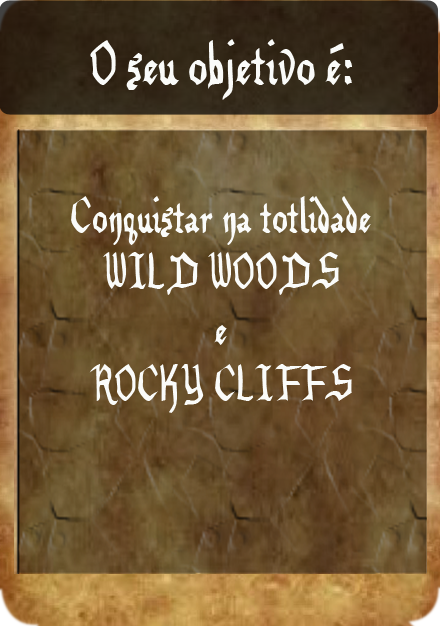
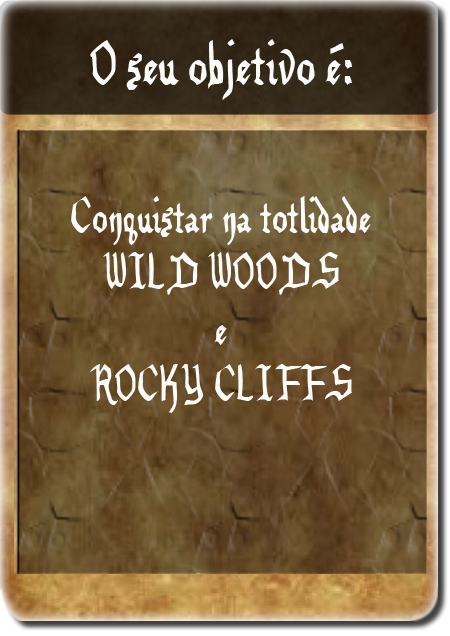
Finalizada tela de exibição das cartas dos jogadores, por enquanto ainda exibindo cartas fixas - fixes #29 - Atualizadas também imagens das cartas de objetivo - issue #26

diff --git a/War/War/PlayableComponent.cs b/War/War/PlayableComponent.cs
@@ -67,8 +67,8 @@ namespace War
             buttons.Add(new Button(75, 545, 2));
             buttons.Add(new Button(175, 545, 2));
             buttons.Add(new Button(751, 12, 2));
-            cardButtons.Add(new Button(100, 350, 2));
-            cardButtons.Add(new Button(600, 350, 2));
+            cardButtons.Add(new Button(124, 350, 2));
+            cardButtons.Add(new Button(598, 350, 2));
             addToken = new Token(-30, -30, 1, null);
             //tokens.Add(new Token(400, 300, 3, Color.White));
             foreach (CartaObjetivo obj in objCards)
@@ -155,6 +155,20 @@ namespace War
             {
                 //Desenhando background das cartas (pergaminho)
                 cardsBatch.Draw(cardsBackground, new Vector2(40, 90), null, Color.White, 0, Vector2.Zero, 1, SpriteEffects.None, 1);
+                Random r = new Random();
+                //Será utilizado quando os jogadores tiverem cartas
+                //int distancia = 114;
+                //foreach (CartaTerritorio carta in Tabuleiro.jogadorDaVez.getCartasJogador())
+                //{
+                //    cardsBatch.Draw(carta.getTerritCardTexture(), new Vector2(10 + distancia, 140), null, Color.White, 0, Vector2.Zero, 0.35f, SpriteEffects.None, 0.5f);
+                //    distancia += 114;
+                //}
+                //Desenhando cartas aleatórias por enquanto
+                cardsBatch.Draw(MaquinaDeRegras.cartas[5].getTerritCardTexture(), new Vector2(10 + 114, 140), null, Color.White, 0, Vector2.Zero, 0.35f, SpriteEffects.None, 0.5f);
+                cardsBatch.Draw(MaquinaDeRegras.cartas[16].getTerritCardTexture(), new Vector2(10 + 228, 140), null, Color.White, 0, Vector2.Zero, 0.35f, SpriteEffects.None, 0.5f);
+                cardsBatch.Draw(MaquinaDeRegras.cartas[20].getTerritCardTexture(), new Vector2(10 + 342, 140), null, Color.White, 0, Vector2.Zero, 0.35f, SpriteEffects.None, 0.5f);
+                cardsBatch.Draw(MaquinaDeRegras.cartas[2].getTerritCardTexture(), new Vector2(10 + 456, 140), null, Color.White, 0, Vector2.Zero, 0.35f, SpriteEffects.None, 0.5f);
+                cardsBatch.Draw(MaquinaDeRegras.cartas[40].getTerritCardTexture(), new Vector2(10 + 570, 140), null, Color.White, 0, Vector2.Zero, 0.35f, SpriteEffects.None, 0.5f);
                 //Desenhando botões de troca de cartas e de visualizar objetivo
                 buttonBatch.Draw(cardButtons[0].getButtonTexture(), cardButtons[0].getButtonPosition(), cardButtons[0].getCurrentFrame(), Color.White, 0, Vector2.Zero, 1, SpriteEffects.None, 0);
                 buttonBatch.Draw(cardButtons[1].getButtonTexture(), cardButtons[1].getButtonPosition(), cardButtons[1].getCurrentFrame(), Color.White, 0, Vector2.Zero, 1, SpriteEffects.None, 0);
@@ -162,7 +176,7 @@ namespace War
             if (drawObj)
             {
                 CartaObjetivo obj = turnPlayer.getObjetivo();
-                cardsBatch.Draw(obj.getObjCardTexture(), new Vector2((800 / 2) - (obj.getObjCardTexture().Width * 0.8f / 2), (600 / 2) - (obj.getObjCardTexture().Height * 0.8f / 2)), null, Color.White, 0, Vector2.Zero, 0.8f, SpriteEffects.None, 0);
+                cardsBatch.Draw(obj.getObjCardTexture(), new Vector2((800 / 2) - (obj.getObjCardTexture().Width * 0.6f / 2), (600 / 2) - (obj.getObjCardTexture().Height * 0.6f / 2)), null, Color.White, 0, Vector2.Zero, 0.6f, SpriteEffects.None, 0);
             }
             mapBatch.Draw(warMap, Vector2.Zero, null, Color.White, 0, Vector2.Zero, 1, SpriteEffects.None, 1);
 

diff --git a/War/War/CartaTerritorio.cs b/War/War/CartaTerritorio.cs
@@ -16,7 +16,6 @@ namespace War
         public const string quadrado = "QUADRADO", triangulo = "TRIANGULO", circulo = "CIRCULO", coringa = "CORINGA";
         private string figura;
         private int tipo;
-        private Vector2 territCardPos;
         private Texture2D territCardTexture;
 
         public CartaTerritorio(string nomeImagem,string tipoFigura)   //necessário adicionar as imagens a cada cartaTerritorio
